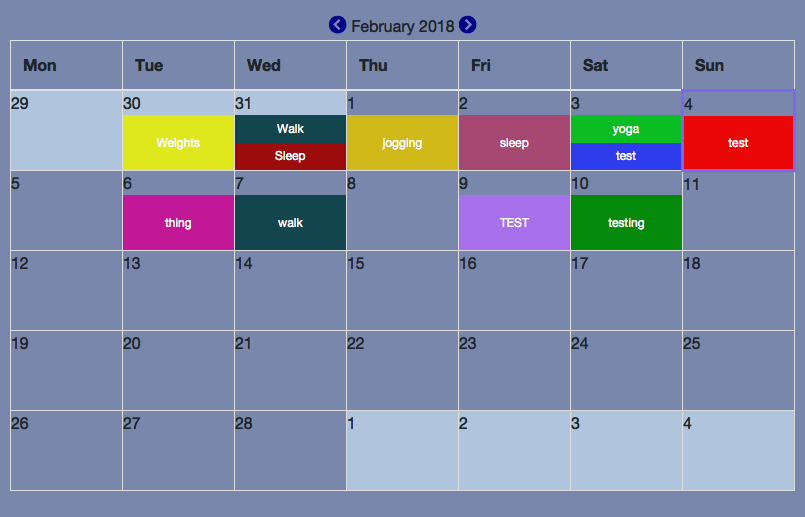
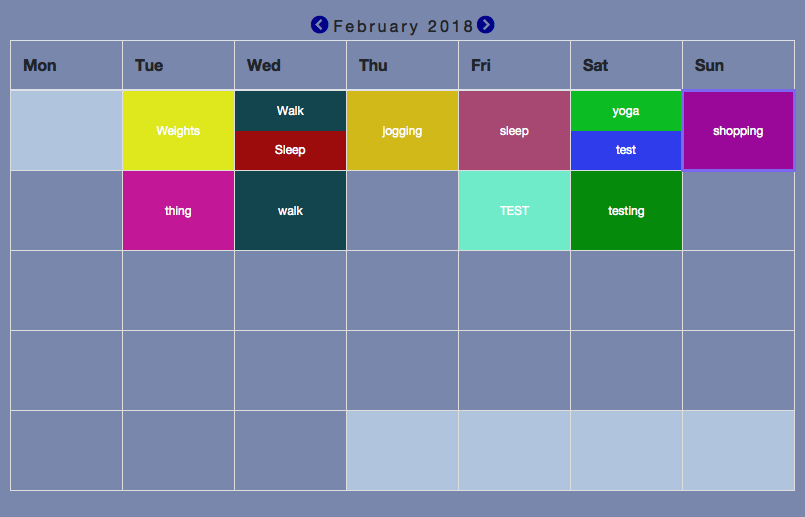
made adjustments on the calender to screenshot without date

diff --git a/app/assets/javascripts/record.js b/app/assets/javascripts/record.js
@@ -106,7 +106,11 @@ $( document ).ready(function() {
   })
 
 // -----------------------------------------------------------------
-
+// when first enter user show page, no date is shown
+// when the mouse enters, the date will shown
+$('.container .row').mouseenter(function(){
+	$('.day-cell').slideDown('slow');
+})
 
 
 

diff --git a/app/assets/stylesheets/meetings.scss b/app/assets/stylesheets/meetings.scss
@@ -31,6 +31,10 @@ td.day {
   letter-spacing: 3px;
 }
 
+.day-cell{
+    display:none;
+}
+
 .cell{
   display:flex;
   flex-direction: column;
